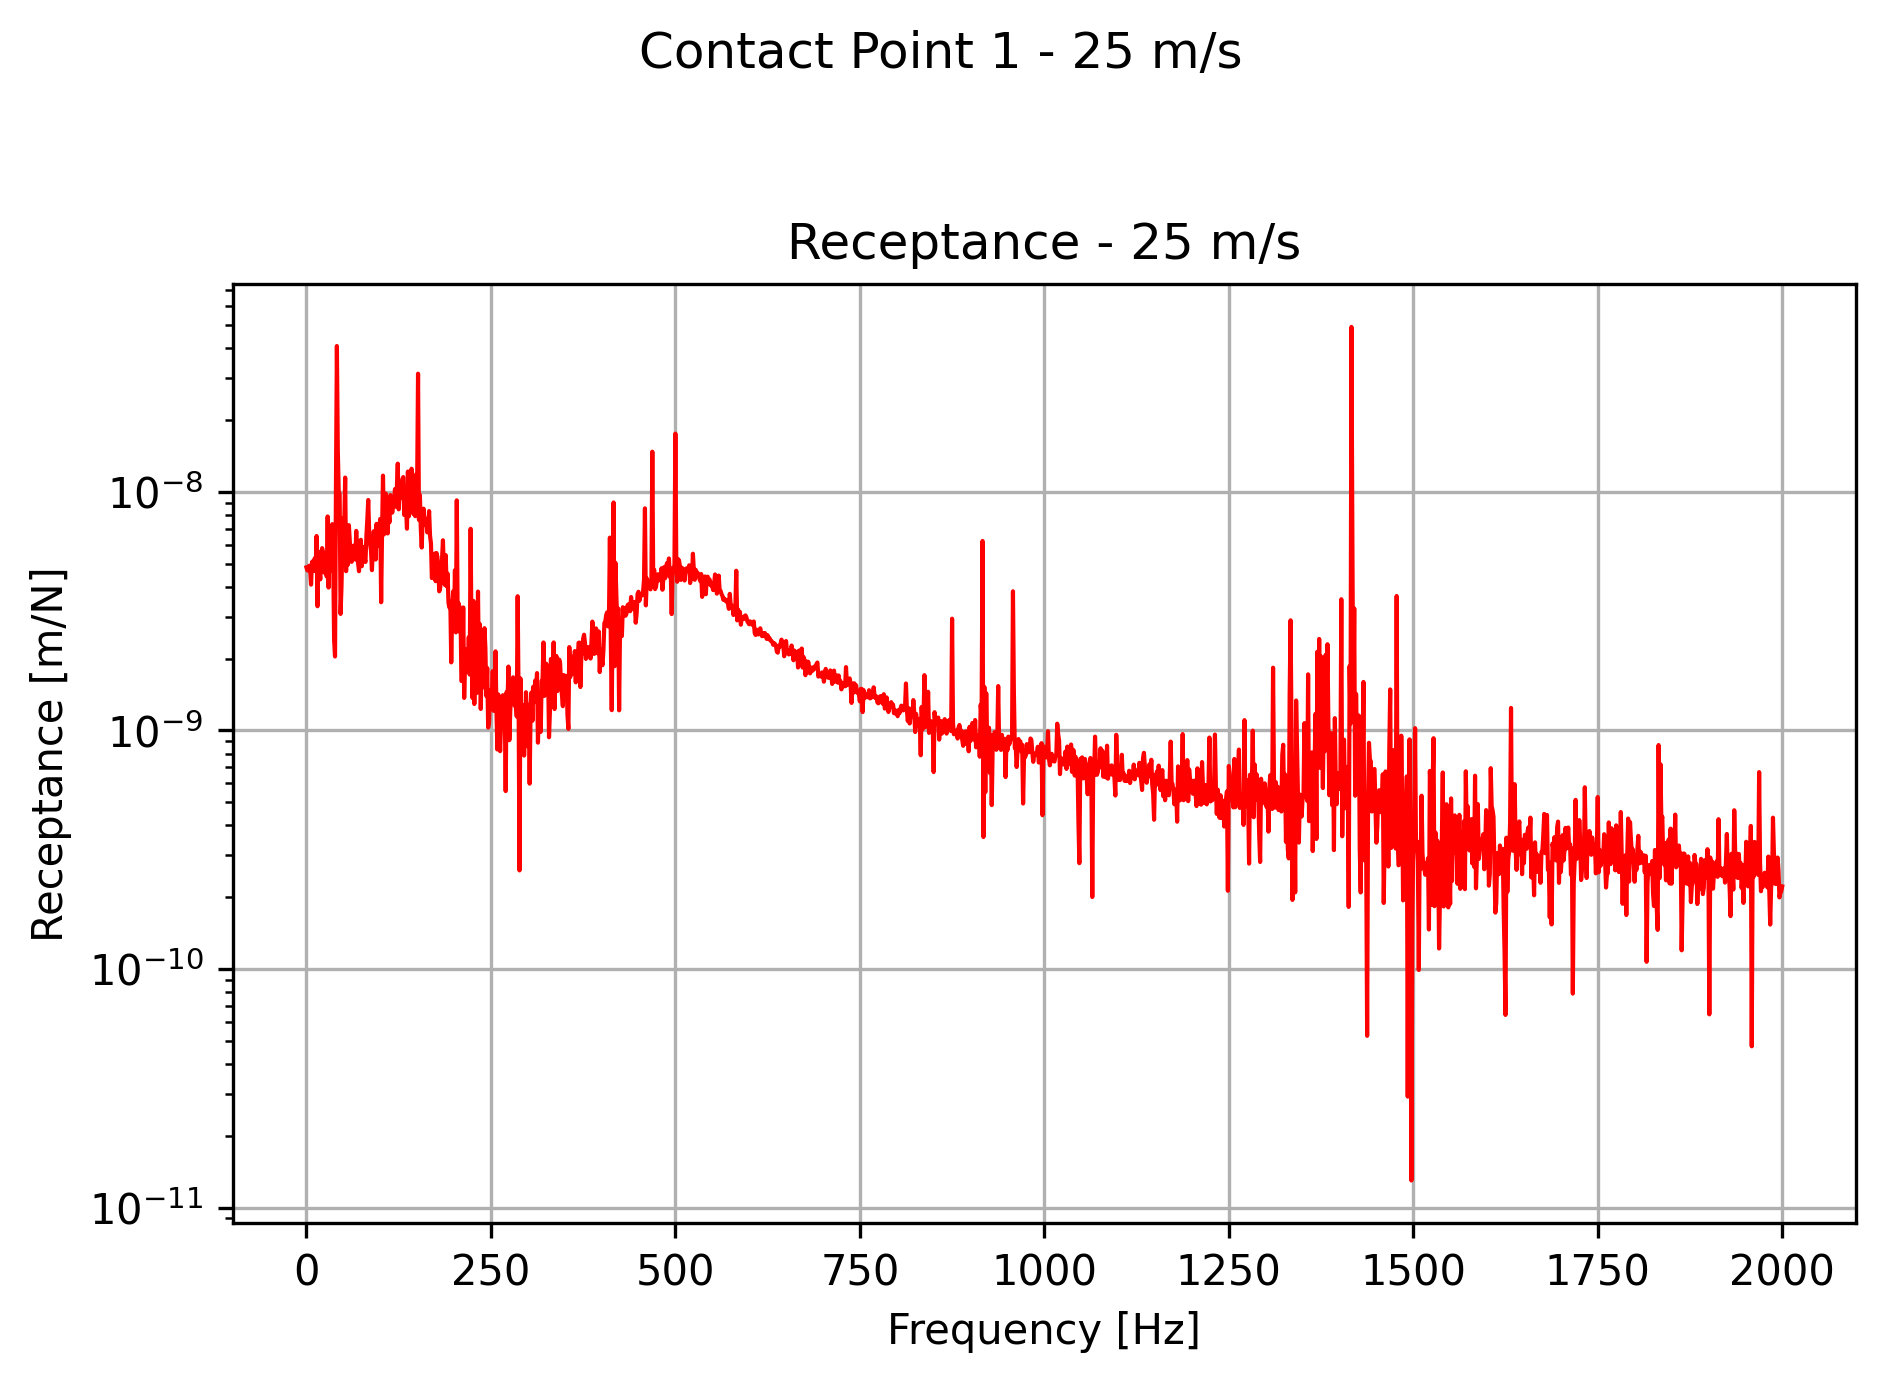
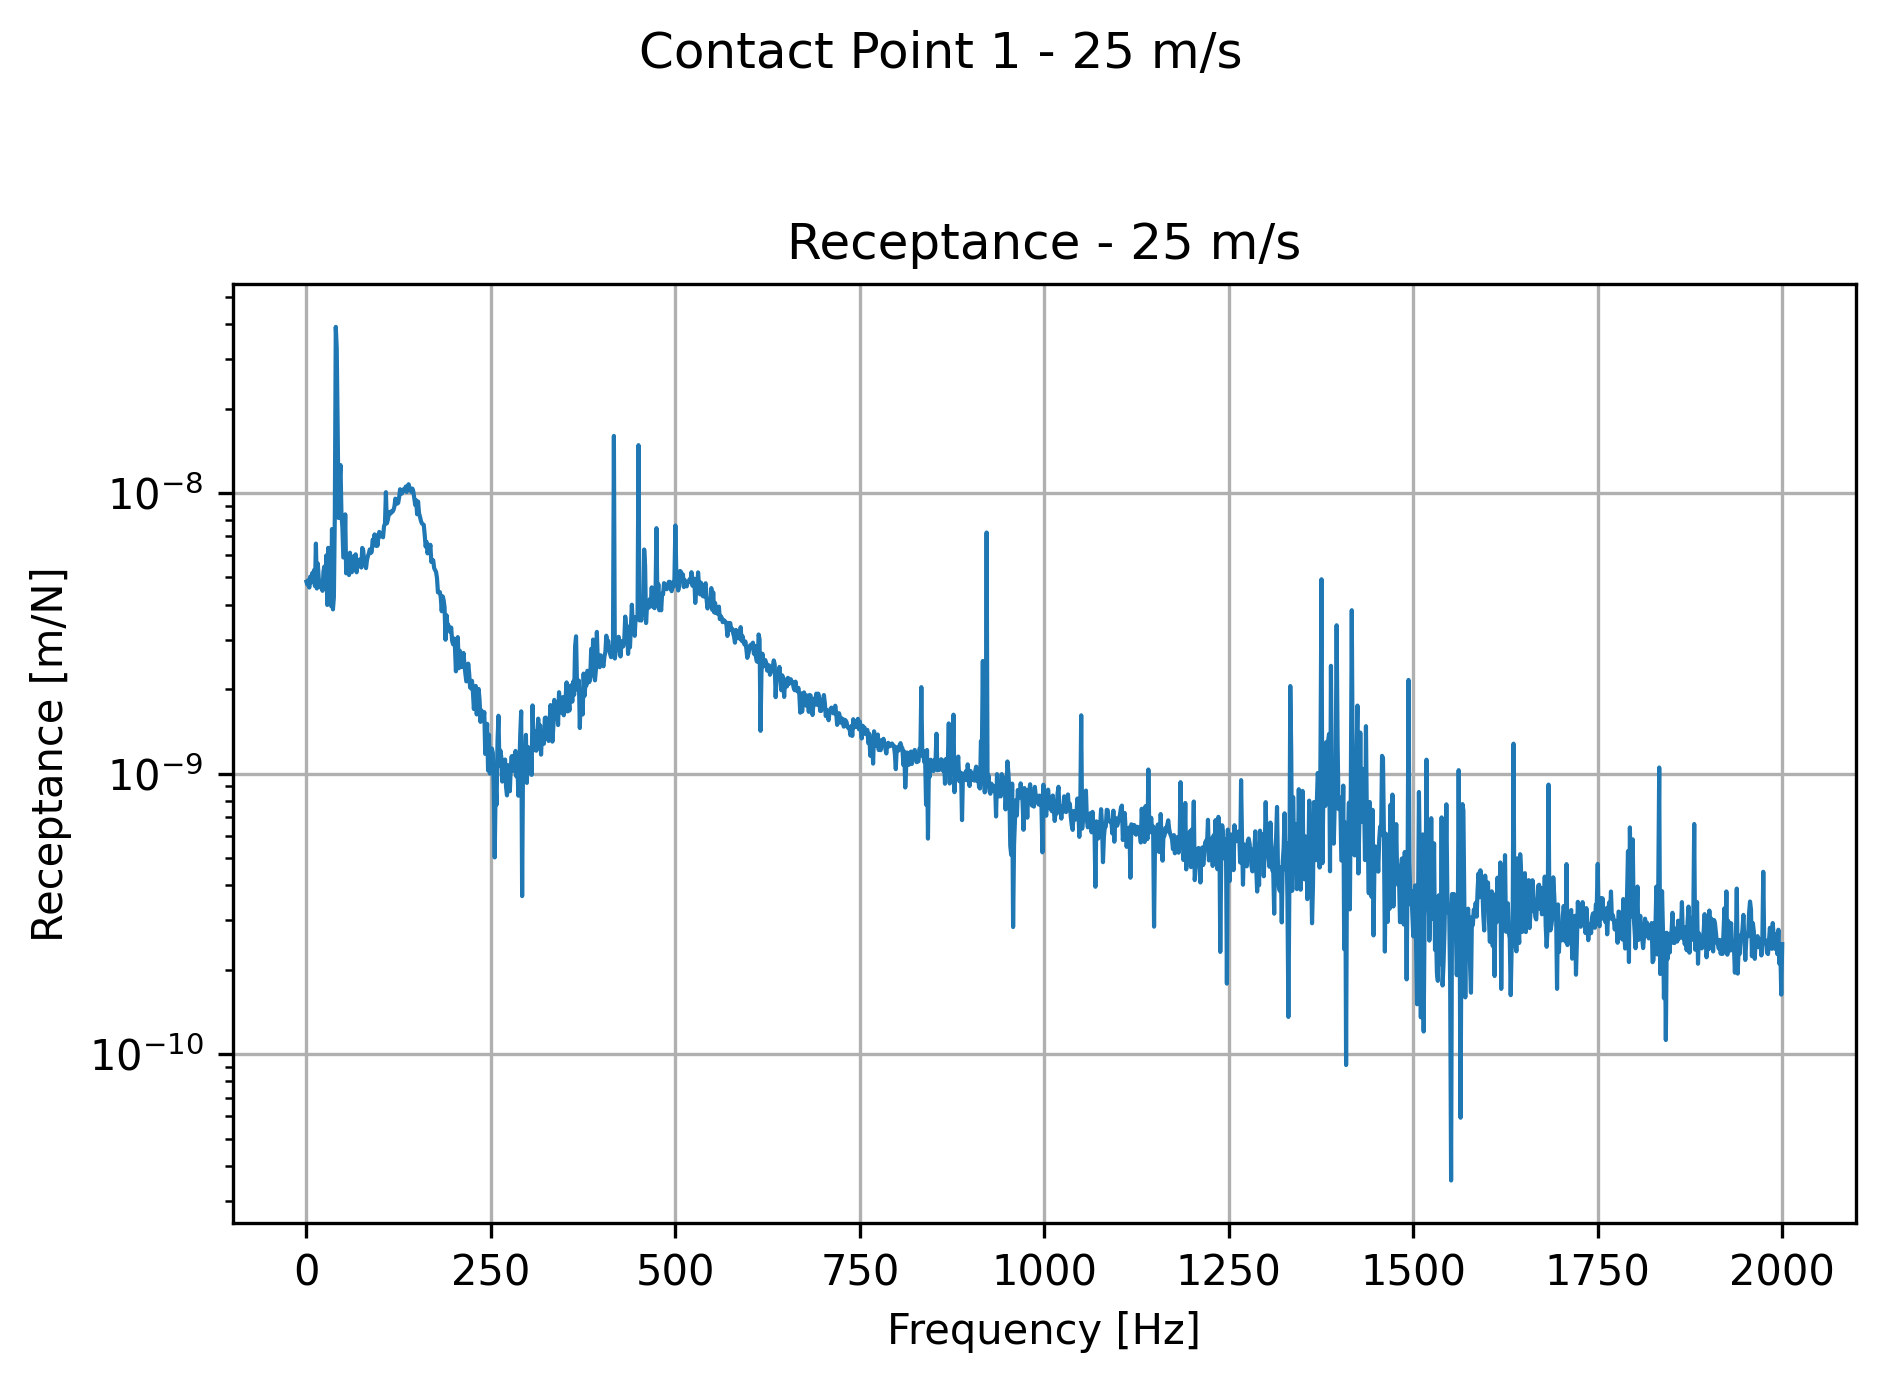
clean results again! timestep changed to 2.2e-5

diff --git a/Moving_Force.py b/Moving_Force.py
@@ -37,9 +37,9 @@ import scipy
 store_deflection    = False     # TODO: this is not implemented yet!
 starting_position   = 80.0      # Starting position [m]
 num_mount           = 400       # Number of discrete mounting positions
-l_bound             = 20.0      # width of boundary domain
+l_bound             = 40.0      # width of boundary domain
 req_simt            = 1         # Required simulation time [s]
-dt                  = 2e-5      # time step [s]
+dt                  = 2.2e-5      # time step [s]
 velocities          = [25, 60, 80]      # Velocities to simulate [m/s]
 # velocities          = np.arange(5, 101, 5)  # 5 to 100 m/s in 5 m/s steps
 ramp_fraction       = 0.1       # fraction of total time for ramp up

diff --git a/rolland/database/rail/db_rail.py b/rolland/database/rail/db_rail.py
@@ -37,7 +37,7 @@ def load_rail_geo(file_path):
         return [(float(row[0]), float(row[1])) for row in csvreader]
 
 NORDBORG = Rail(
-    crl_geo=load_rail_geo(os.path.join(os.path.dirname(__file__), 'UIC60.csv')),
+    rl_geo=load_rail_geo(os.path.join(os.path.dirname(__file__), 'UIC60.csv')),
     E=210e11,
     G=81e9,
     nu=0.3,
@@ -59,7 +59,8 @@ NORDBORG = Rail(
 )
 
 UIC60 = Rail(
-    crl_geo=load_rail_geo(os.path.join(os.path.dirname(__file__), 'UIC60.csv')),
+    
+    rl_geo=load_rail_geo(os.path.join(os.path.dirname(__file__), 'UIC60.csv')),
     E=210e9,
     G=81e9,
     nu=0.3,

diff --git a/rolland/testing.py b/rolland/testing.py
@@ -1,0 +1,19 @@
+import math
+
+d_s = 0.6
+# E   = 210e11  # Nordborg elasticity modulus
+E   = 210e9
+Iyr = 3038.30e-8
+# Izr = 512.30e-8
+# Itr = 209.20e-8
+# Ipr = 3550.60e-8
+B   = E * Iyr
+m   = 60.2  # rail mass per unit length
+v = [25, 60, 80]  # velocities to simulate [m/s]
+
+f_PPF = math.pi/(2*d_s**2)*math.sqrt(B/m)
+print(f"Predicted PPF frequency: {f_PPF:.2f} Hz")
+
+f_SPF = [vi/d_s for vi in v]
+for vi, fsi in zip(v, f_SPF):
+    print(f"Velocity: {vi} m/s -> Predicted SPF frequency: {fsi:.2f} Hz")
